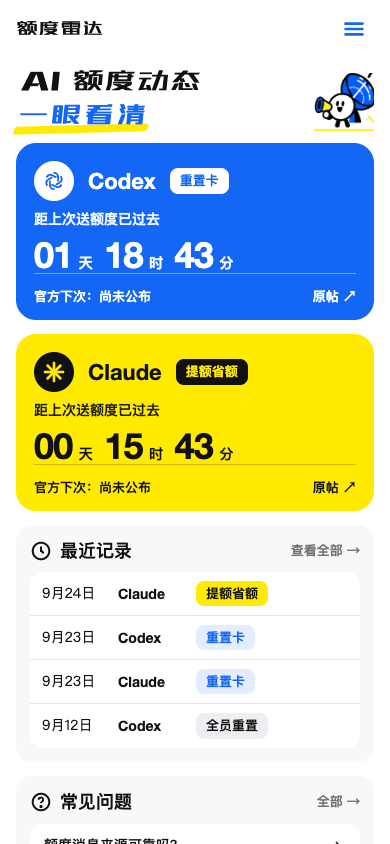
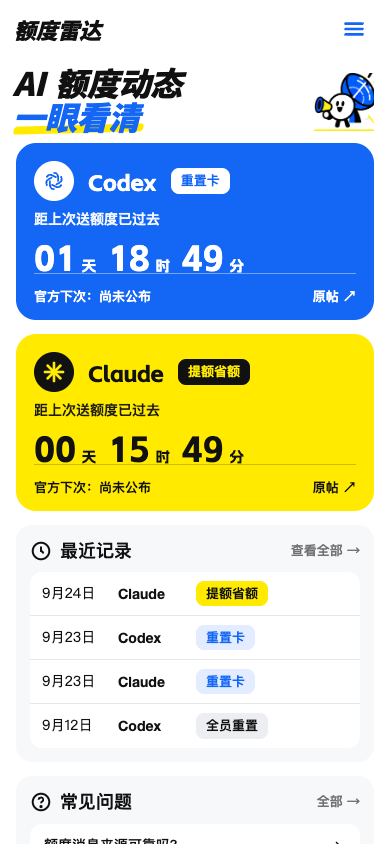
字体对齐参考图：标题换演示斜黑体，数字换阿里妈妈数黑体

diff --git a/CLAUDE.md b/CLAUDE.md
@@ -18,7 +18,7 @@
 ## 视觉真源（2026-09-24 晚拍板）
 - 唯一视觉依据：`reference/full-reference.png`（GPT 出的交付规范板）+ 切出的 `desktop-reference.png` / `mobile-reference.png`；用户的文字规范在 `docs/design/UI交付规范V1.0.md`。高还原，不二次设计。
 - Design tokens 在 build.mjs 的 :root：蓝 #1467F5、黄 #FFEA00、黑 #111111、辅助字 #727272、面板 #F7F8FA、边框 #E7E7E7。
-- 英雄区标题/站名/贴纸用站酷高端黑子集 `site/assets/hero-font.woff2`（约 5KB，只含那十几个字；改字要重新子集：`python3 -m fontTools.subset ~/Library/Fonts/站酷高端黑修订151105.ttf --text="..." --output-file=site/assets/hero-font.woff2 --flavor=woff2`）。
+- 英雄区标题/站名/贴纸用「演示斜黑体」子集 `site/assets/hero-font.woff2`（4.5KB），卡片名与天时分数字用「阿里妈妈数黑体」子集 `num-font.woff2`（2KB）；两款均免费商用。改字要重新子集：`python3 -m fontTools.subset ~/Library/Fonts/演示斜黑体.otf --text="..." --output-file=site/assets/hero-font.woff2 --flavor=woff2`）。
 - 首页状态卡只放：名字、标签、「距上次送额度已过去」、天时分、「官方下次：尚未公布」、原帖。中文一句话不上首页，进 /timeline。
 - 验收截图：`docs/design/screenshots/home-<w>x<h>.png`，五个尺寸 1440/1280/390/375/430。
 
